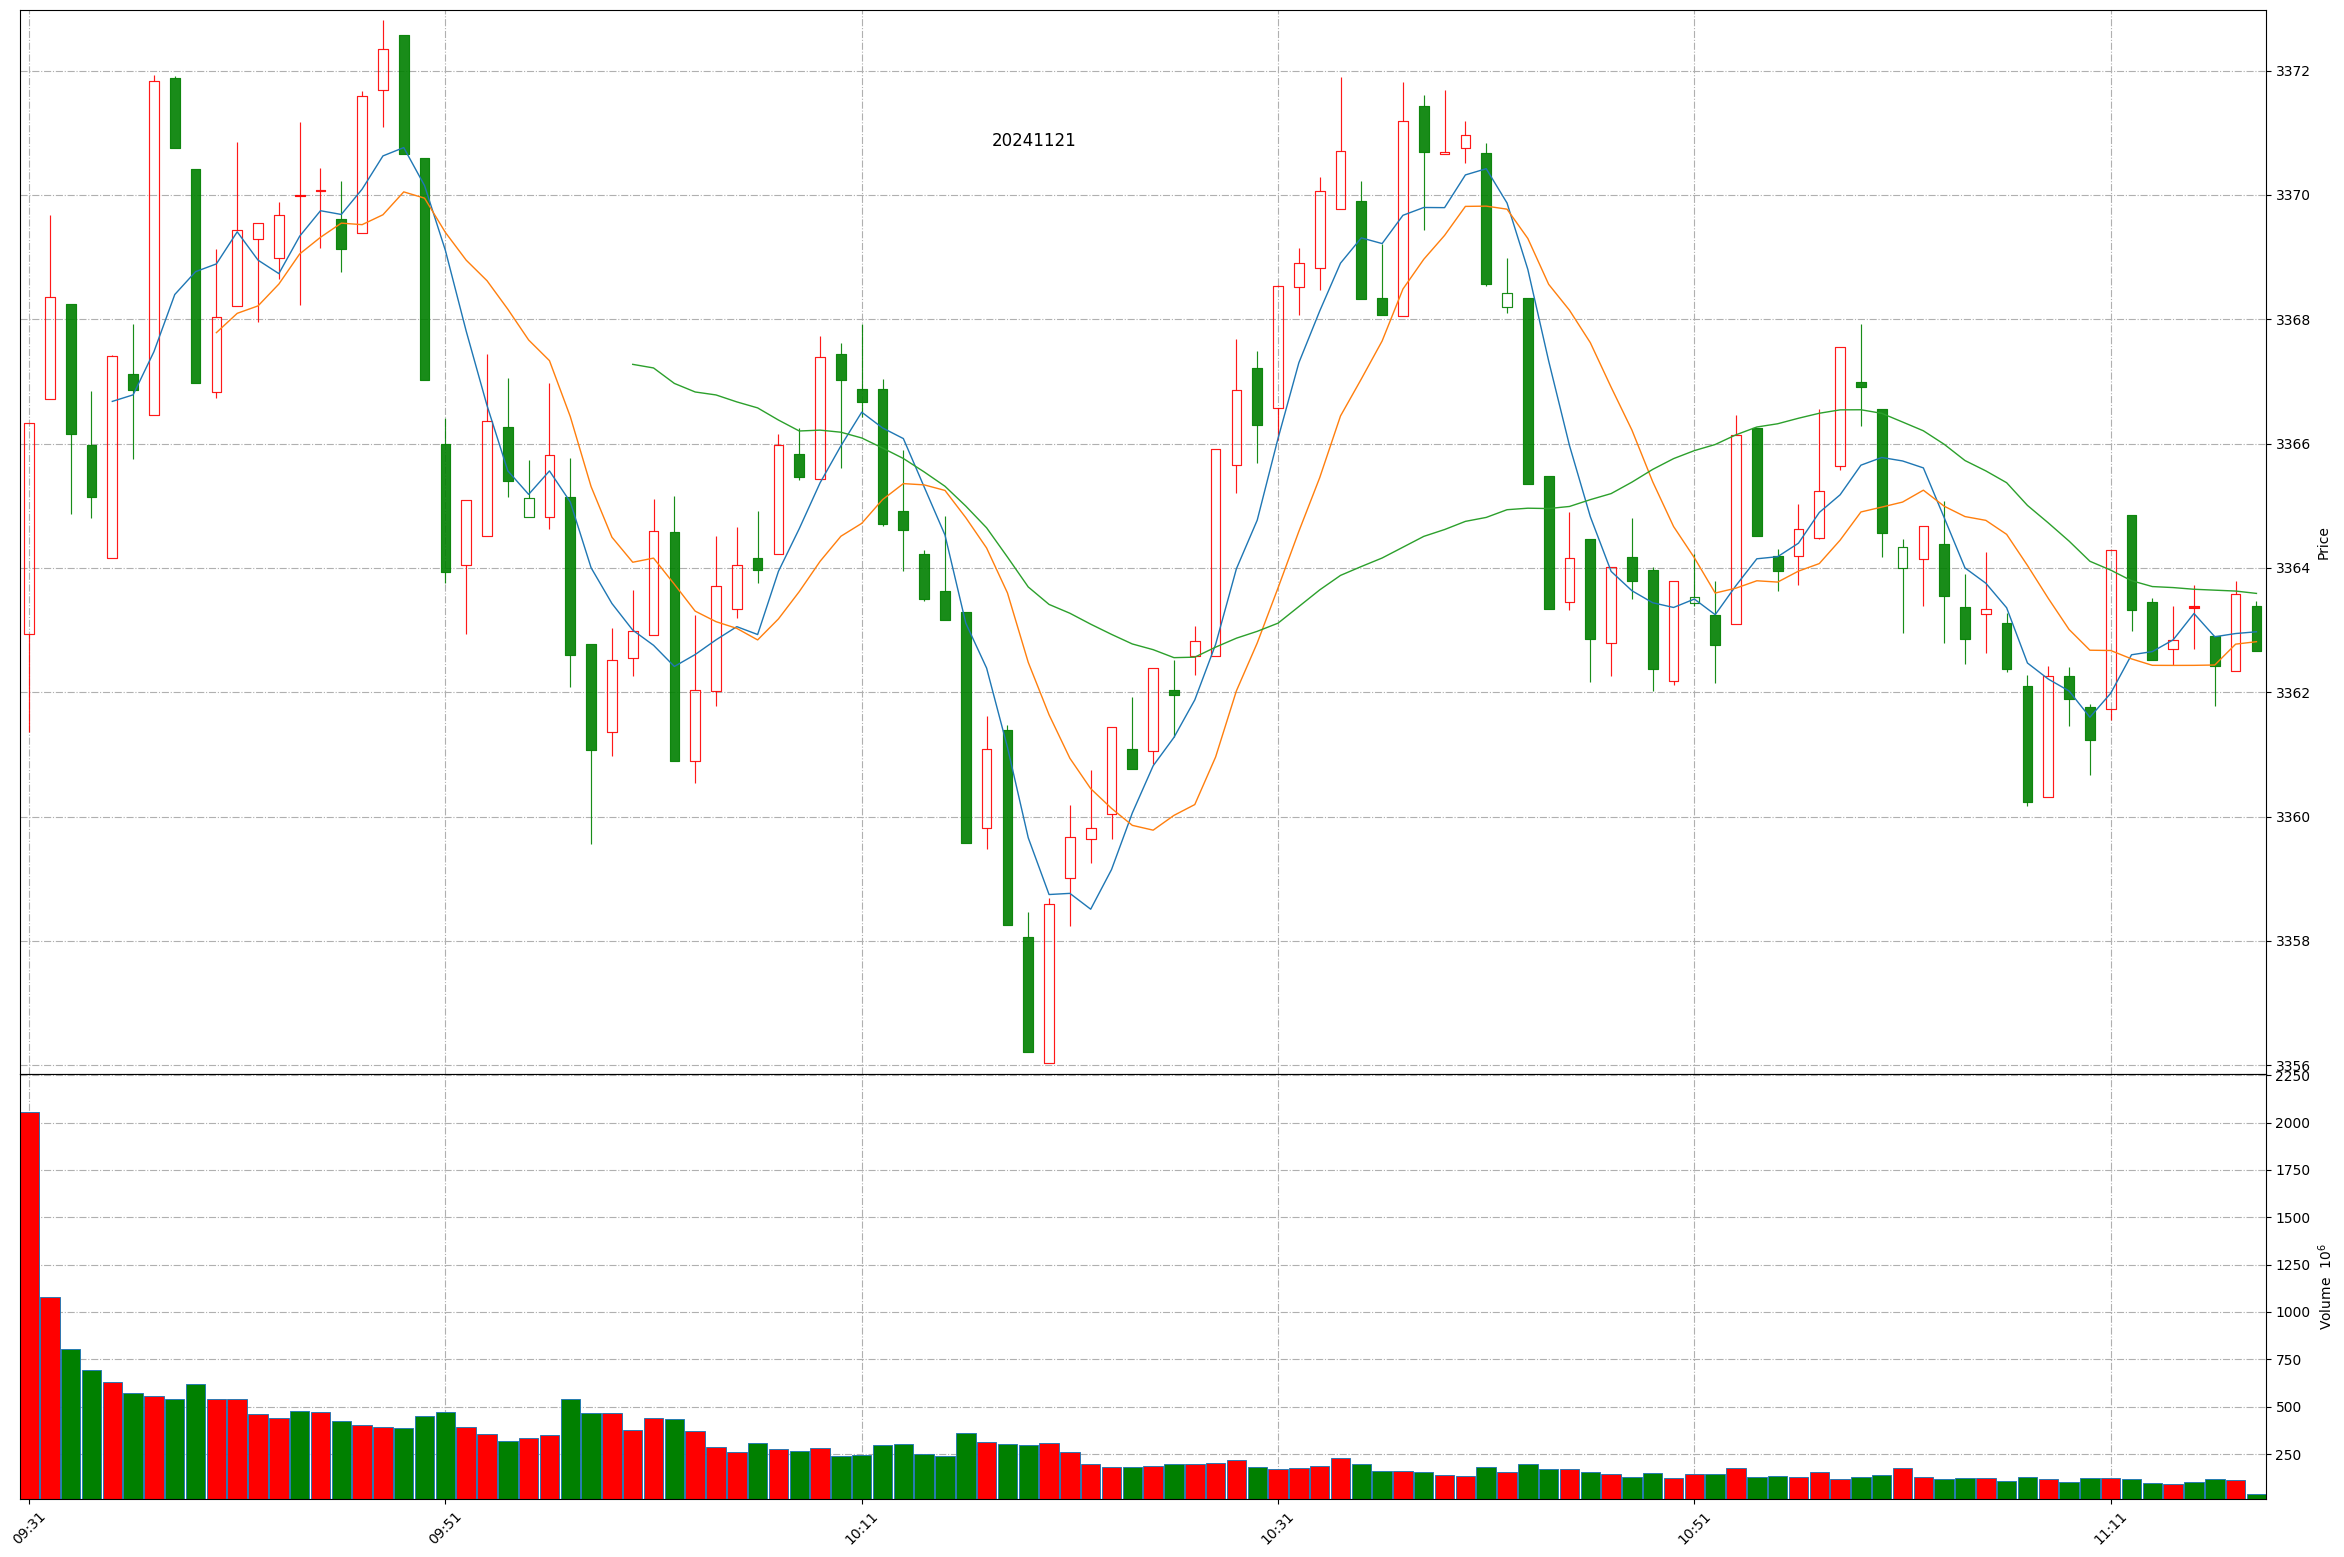
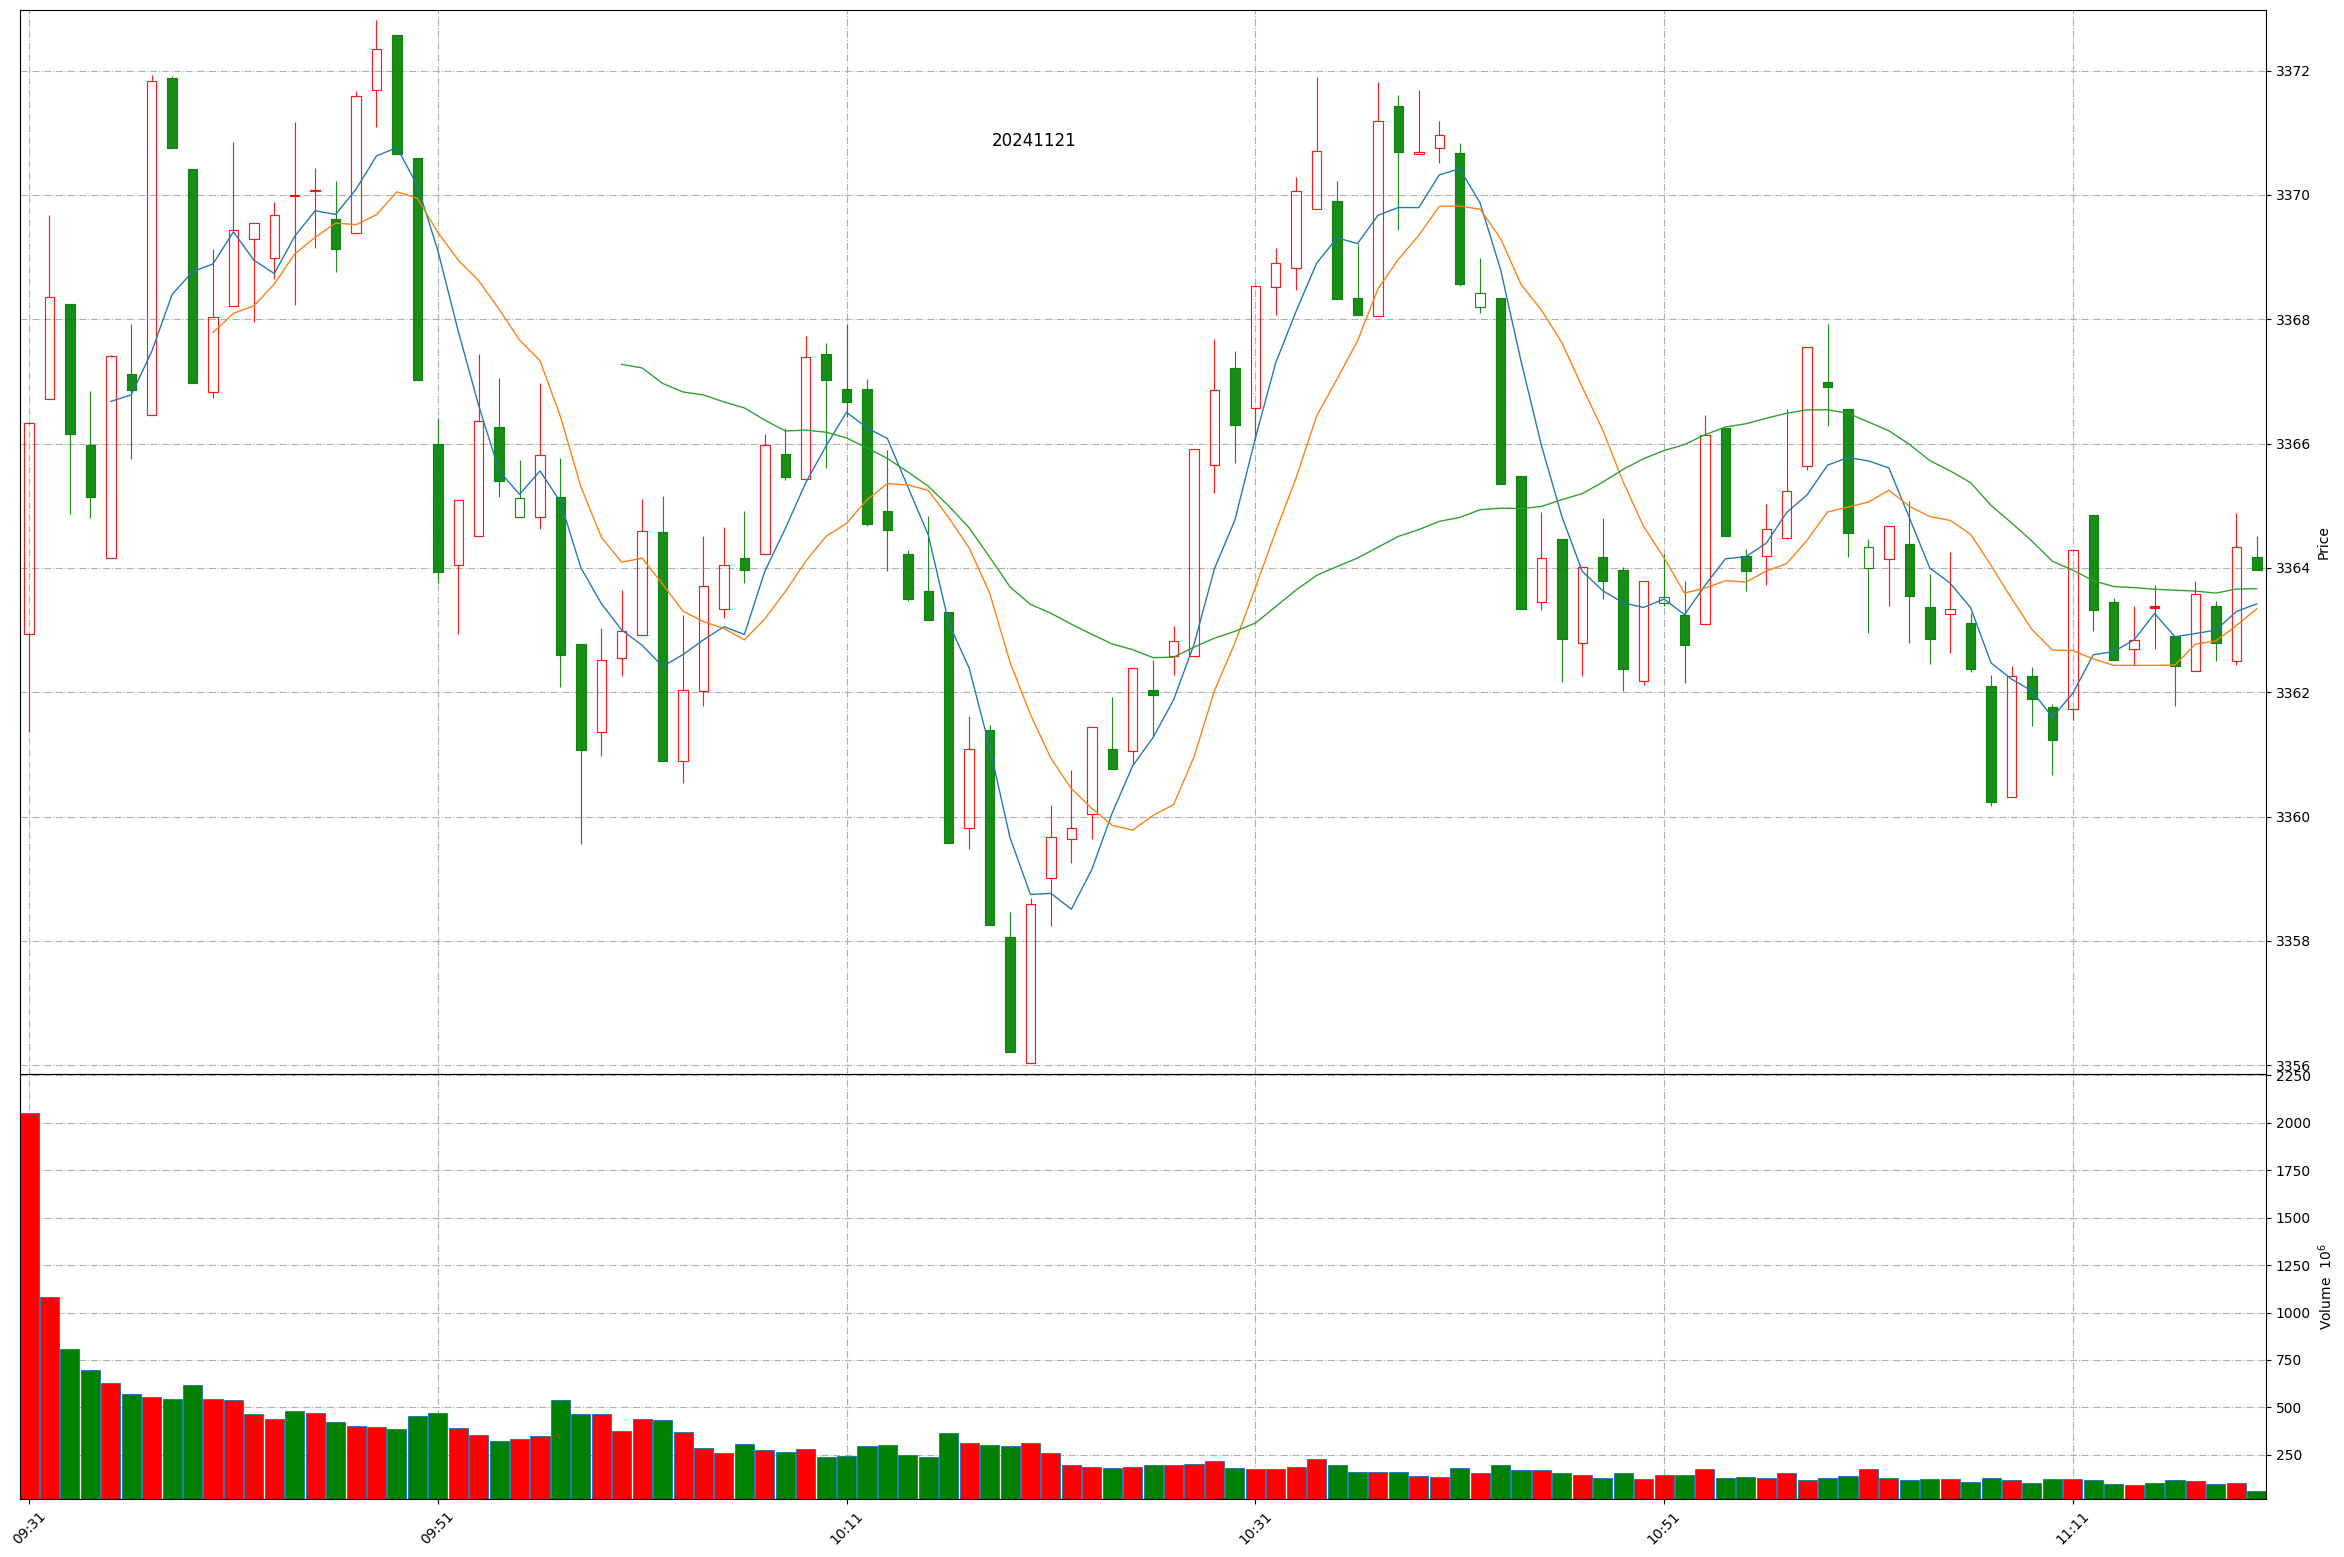
Github action update at 2024-11-21 11:19:58.

diff --git a/README.md b/README.md
@@ -1,11 +1,11 @@
 
 # Daily-A-share-market-quotes 每日 A 股指数（5min 更新）- 20241121
 
-### 上证指数 20241121 11:17
+### 上证指数 20241121 11:19
 ![](./fig/2024/11/20241121-sh000001.png)
 
-### 深证成指 20241121 11:17
+### 深证成指 20241121 11:19
 ![](./fig/2024/11/20241121-sz399001.png)
 
-### 北证50 20241121 11:17
+### 北证50 20241121 11:19
 ![](./fig/2024/11/20241121-bj899050.png)
